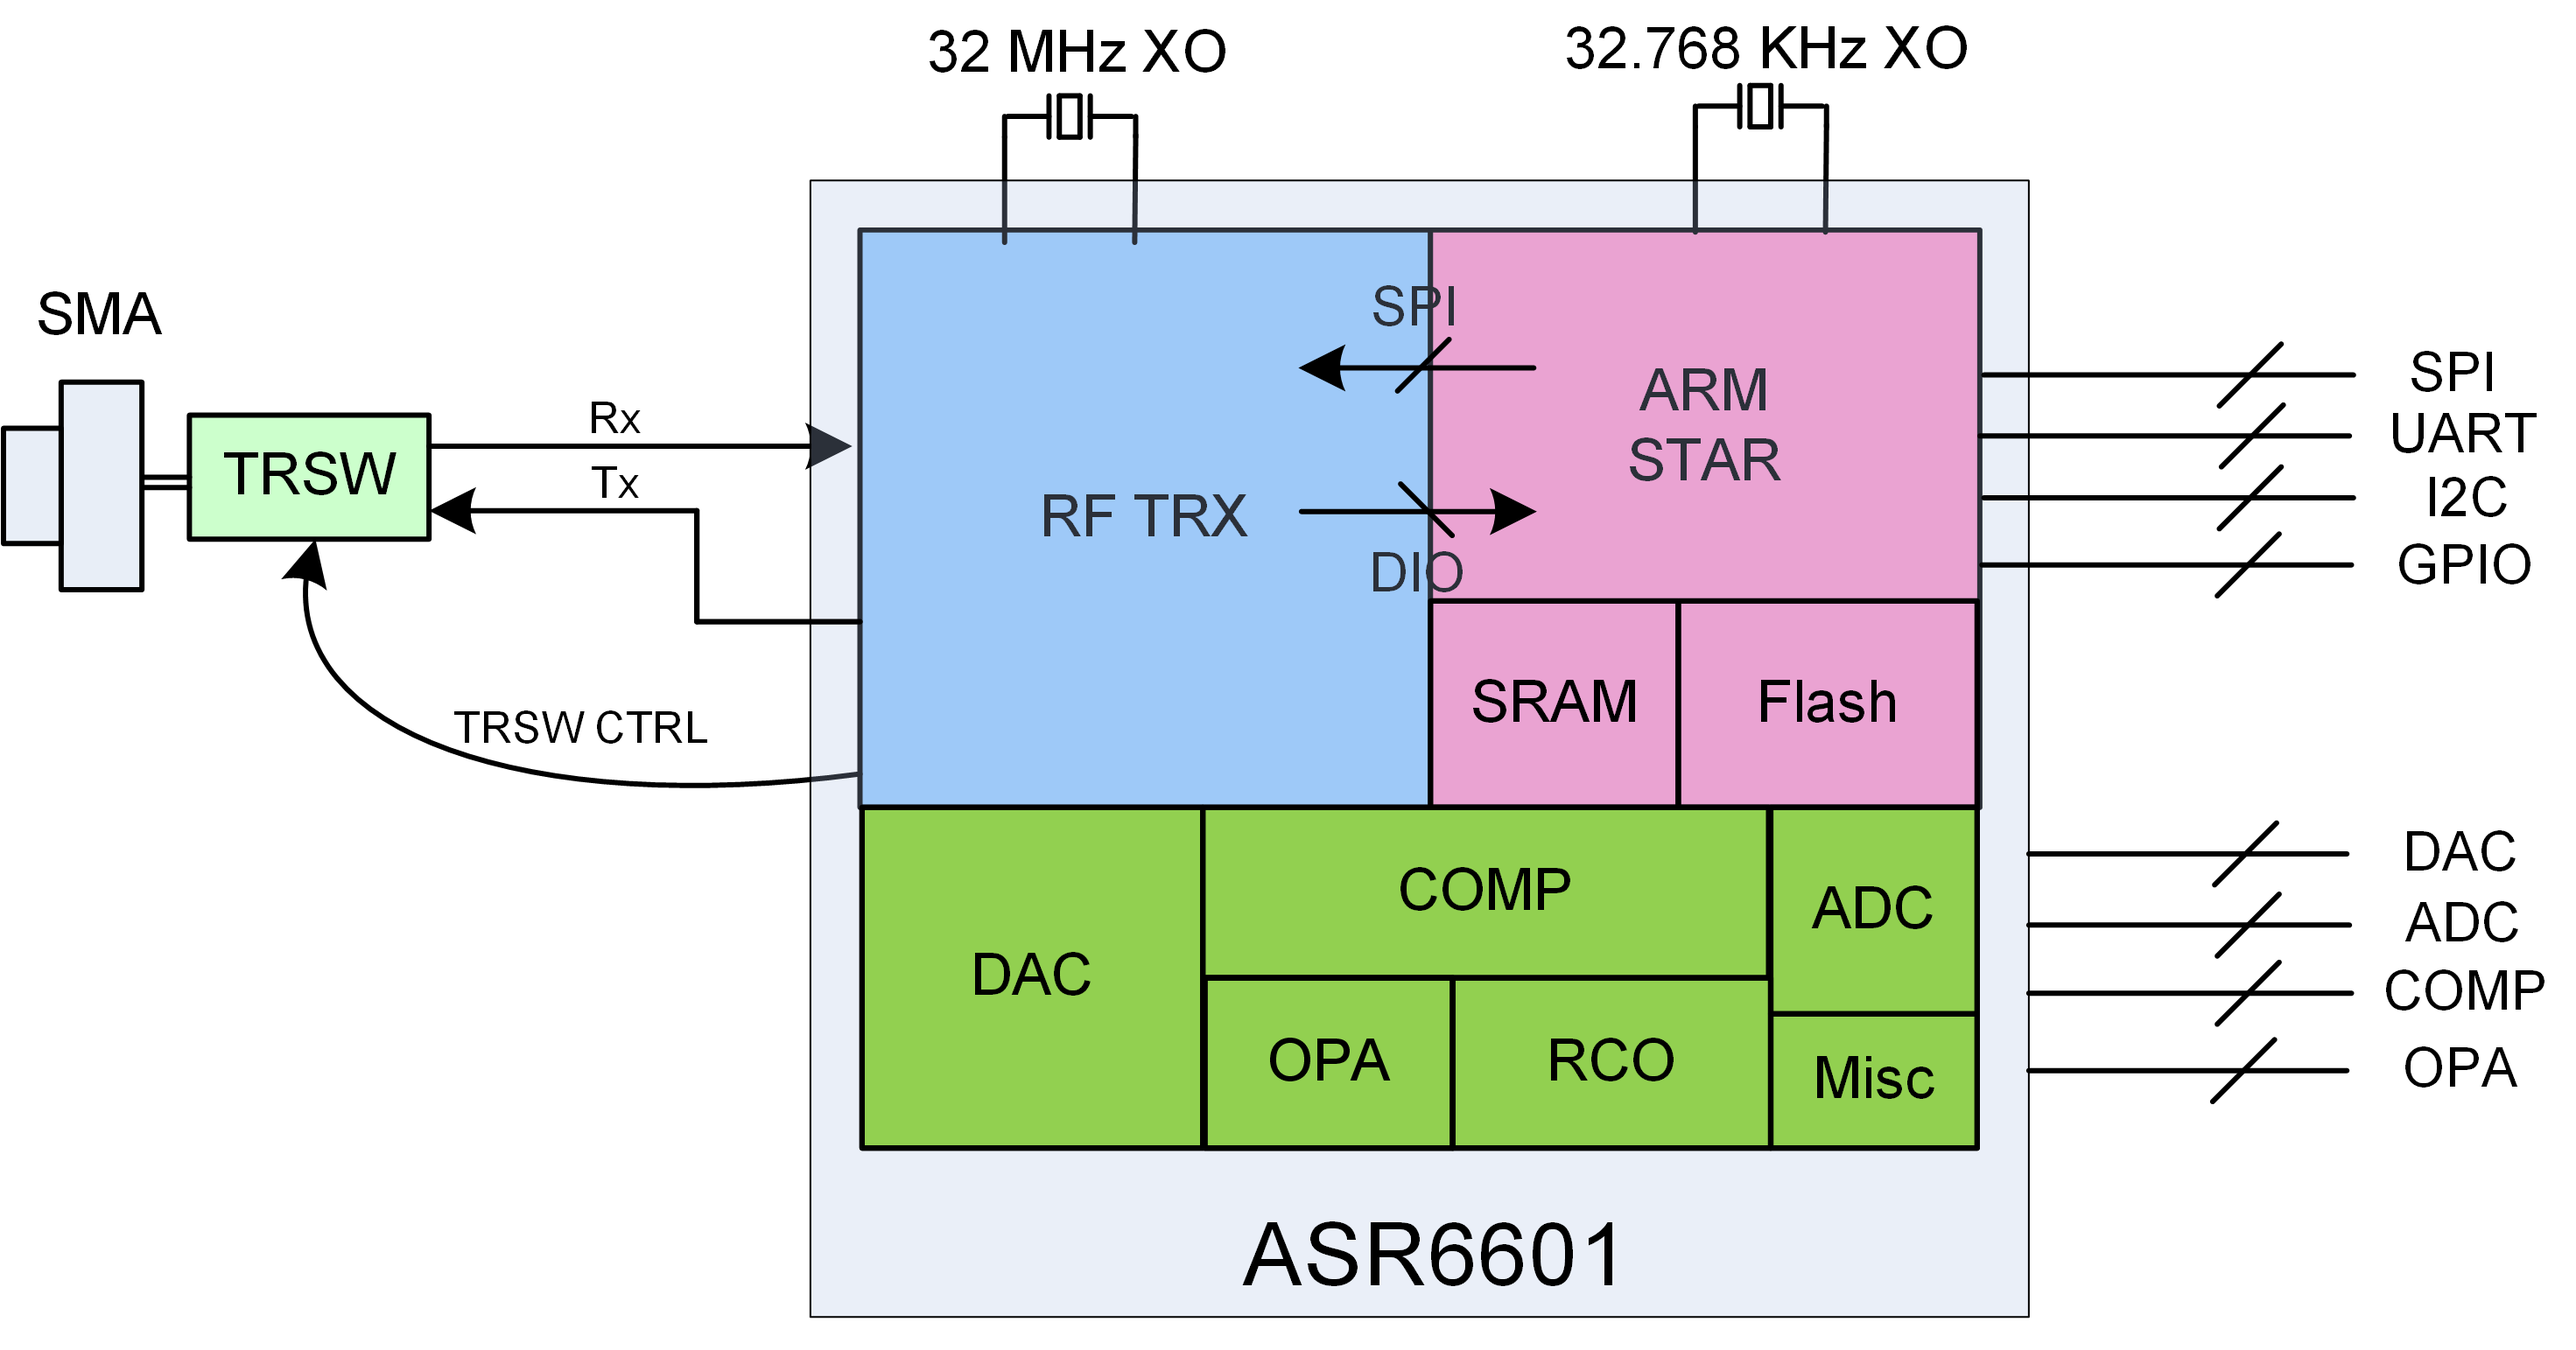
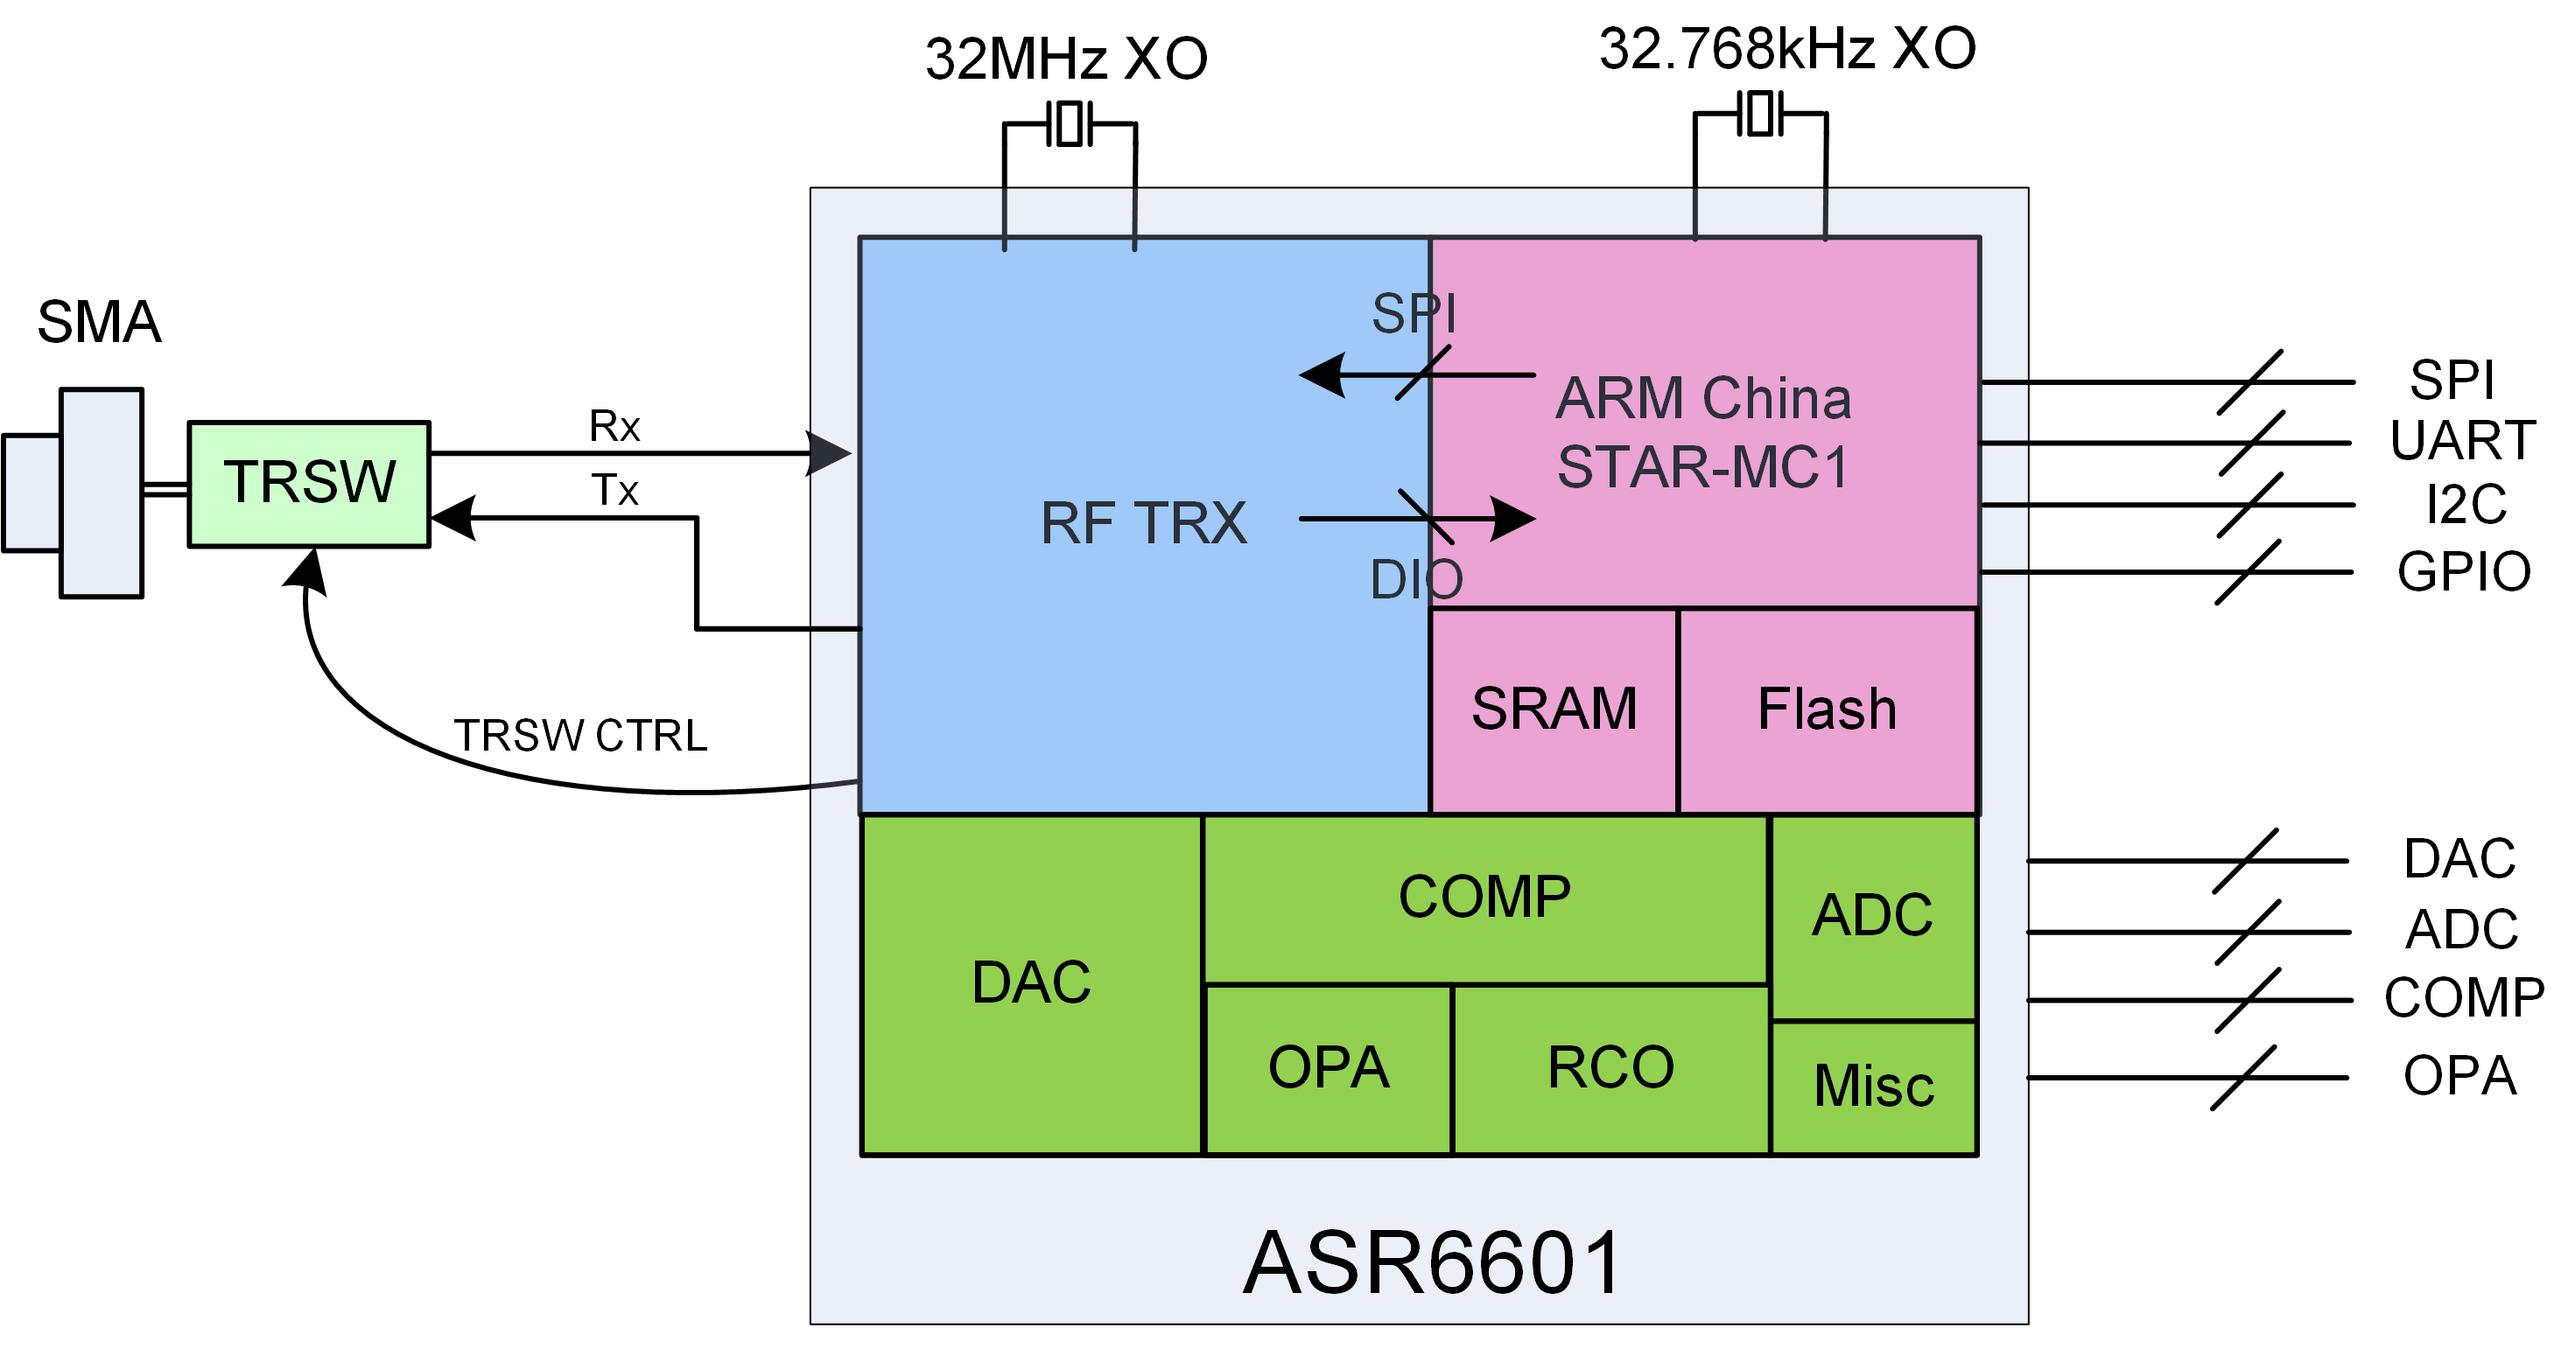
change some descriptions

diff --git a/source/ASR6601/Datasheet/datasheet.rst b/source/ASR6601/Datasheet/datasheet.rst
@@ -15,9 +15,9 @@ The product models corresponding to this document are as follows.
 +-----------+--------+-------+-----------------------------+---------------+---------------+
 | Model     | Flash  | SRAM  | Core                        | Package       | Frequency     |
 +===========+========+=======+=============================+===============+===============+
-| ASR6601SE | 256 KB | 64 KB | 32-bit 48 MHz ARM STAR      | QFN68, 8*8 mm | 150 ~ 960 MHz |
+| ASR6601SE | 256 KB | 64 KB | 32-bit 48 MHz ARM China STAR MC1     | QFN68, 8*8 mm | 150 ~ 960 MHz |
 +-----------+--------+-------+-----------------------------+---------------+---------------+
-| ASR6601CB | 128 KB | 16 KB | 32-bit 48 MHz ARM STAR      | QFN48, 6*6 mm | 150 ~ 960 MHz |
+| ASR6601CB | 128 KB | 16 KB | 32-bit 48 MHz ARM China STAR MC1      | QFN48, 6*6 mm | 150 ~ 960 MHz |
 +-----------+--------+-------+-----------------------------+---------------+---------------+
 
 **Copyright Notice**
@@ -53,7 +53,7 @@ All liability, including liability for infringement of any proprietary rights ca
 1.1 General
 ~~~~~~~~~~~
 
-ASR6601 is a general LPWAN Wireless Communication SoC, with integrated RF Transceiver, Modem and a 32-bit RISC MCU. The MCU uses ARM STAR, with 48 MHz operation frequency. The RF Transceiver has continuous frequency coverage from 150 MHz to 960 MHz. The Modem supports LoRa modulation for LPWAN use cases and (G)FSK modulation for legacy use cases. The Modem also supports BPSK modulation in TX and (G)MSK modulation in TX and RX. The LPWAN Wireless Communication Module designed with ASR6601 provides ultra-long range and ultra-low power communication for LPWAN application.
+ASR6601 is a general LPWAN Wireless Communication SoC, with integrated RF Transceiver, Modem and a 32-bit RISC MCU. The MCU uses ARM China STAR-MC1, with 48 MHz operation frequency. The RF Transceiver has continuous frequency coverage from 150 MHz to 960 MHz. The Modem supports LoRa modulation for LPWAN use cases and (G)FSK modulation for legacy use cases. The Modem also supports BPSK modulation in TX and (G)MSK modulation in TX and RX. The LPWAN Wireless Communication Module designed with ASR6601 provides ultra-long range and ultra-low power communication for LPWAN application.
 
 ASR6601 can achieve a high sensitivity to -148 dBm and the maximum transmit power is up to +22 dBm. This makes the chip suitable to be used in long range LPWAN and have high efficiency. The total chip package is of very small size, QFN 6 mm x 6 mm/QFN 8 mm x 8 mm.
 
@@ -80,7 +80,7 @@ ASR6601 can achieve a high sensitivity to -148 dBm and the maximum transmit powe
 
 -  4 x GPtimer, 2 x Basic Timer, 2 x LP timer and 1 x Sys Ticker
 
--  48 MHz ARM STAR CPU
+-  48 MHz ARM China STAR-MC1 CPU
 
 -  4-channel DMA engine x 2
 

diff --git a/source/ASR550X/Datasheet/index.rst b/source/ASR550X/Datasheet/index.rst
@@ -5,7 +5,7 @@ ASR550X Datasheet
 .. toctree::
    :maxdepth: 2
 
-    ASR5502A&5502C Datasheet <https://drive.google.com/file/d/1pnHqPWA-lmK_V-TaloTfUodNfvZkLr9G/view?usp=sharing>
+    ASR5502A Datasheet <https://drive.google.com/file/d/18q8eMEeBt6M8HkQvctYoyIFT-h8euw6m/view?usp=sharing>
     ASR5502S Datasheet <5502S_DS>
     ASR5505S Datasheet <5505S_DS>
 
